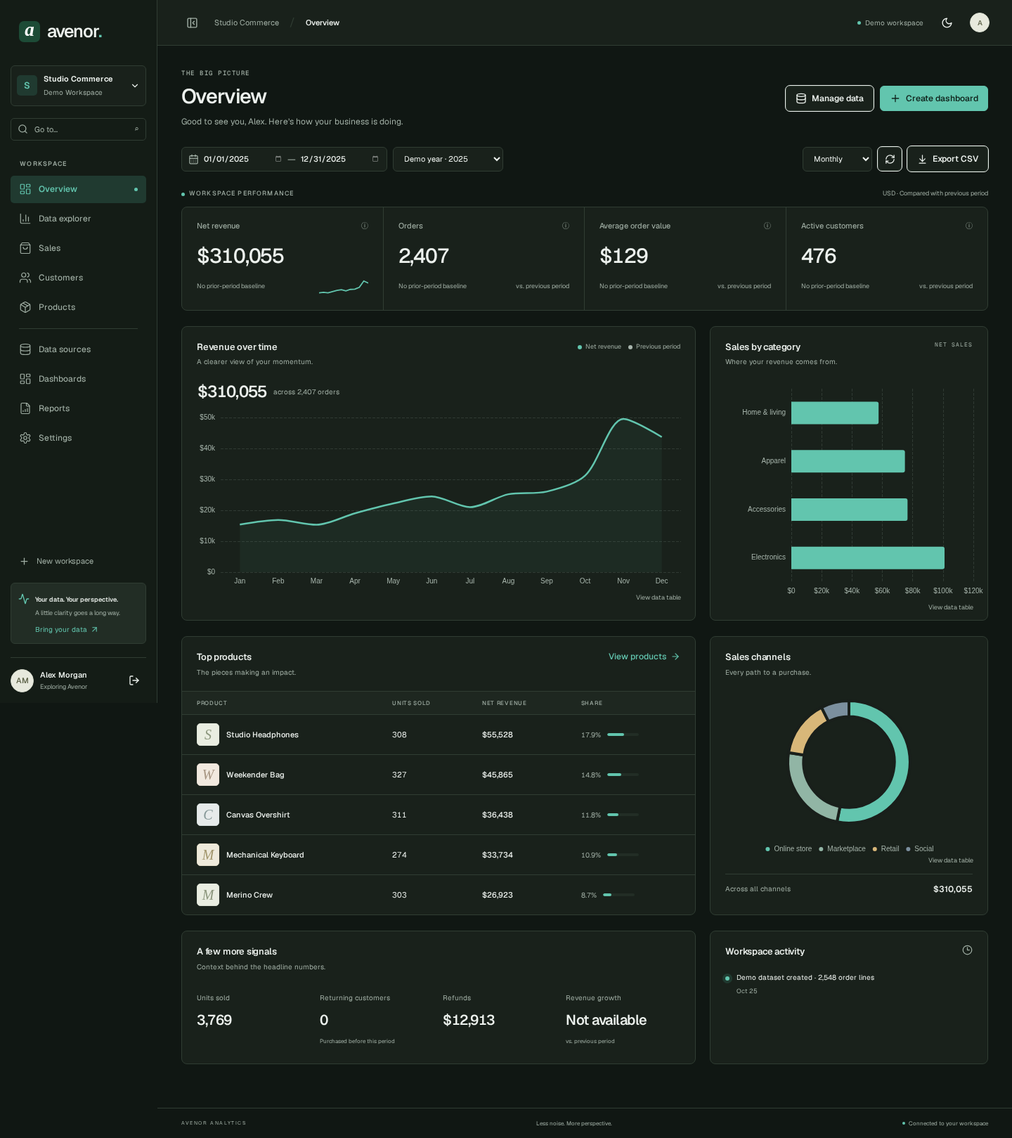
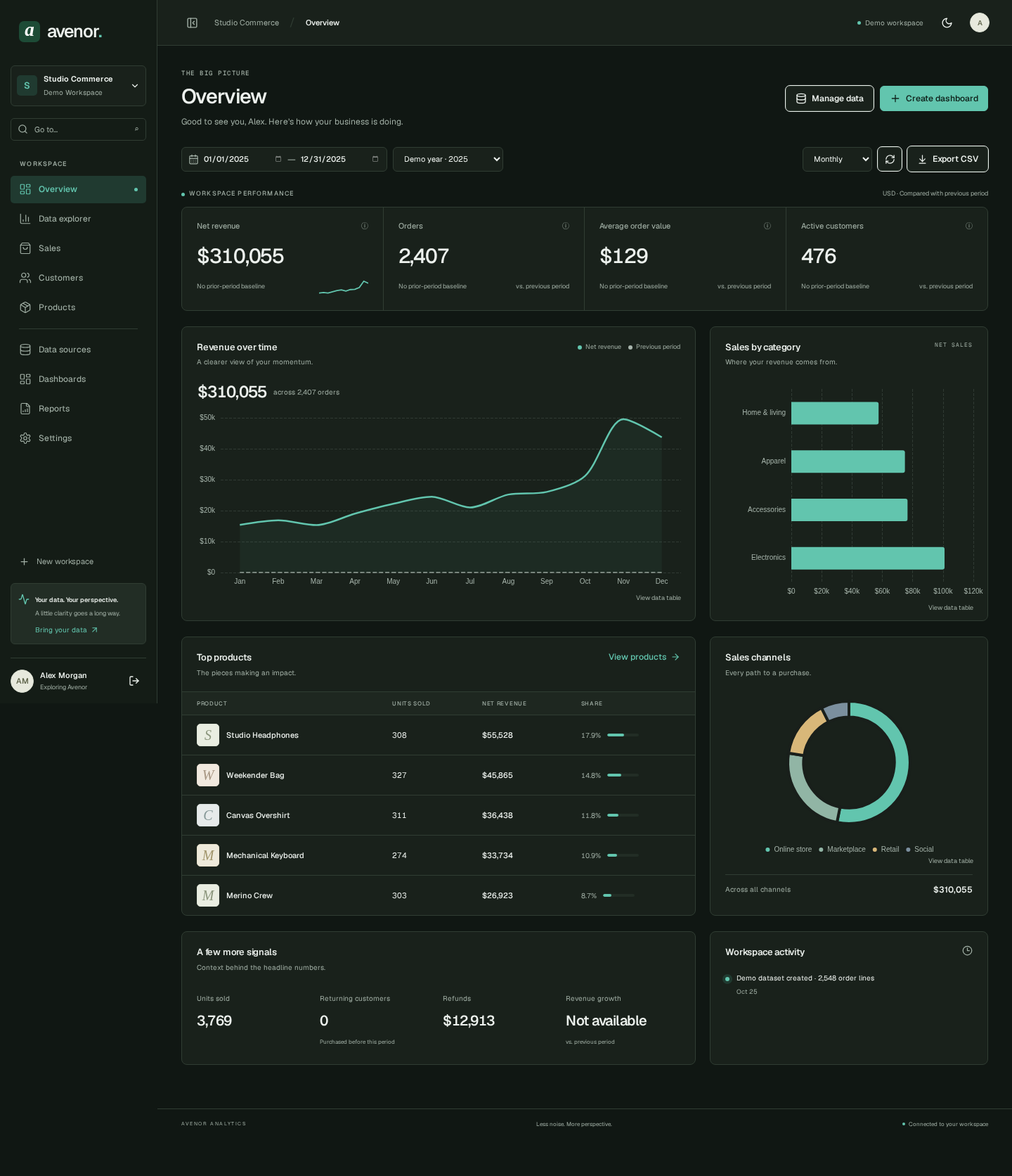
docs: record full bug audit and expanded validation evidence

diff --git a/docs/bug-audit.md b/docs/bug-audit.md
@@ -1,0 +1,39 @@
+# Bug audit — 25 October 2026
+
+Scope: every application module, API inputs/authorization, SQL analytics and concurrency, CSV/XLSX parsing and replacement, UI forms/navigation/cache/persistence, generated contracts, dependencies, migrations and Docker production runtime. Existing baseline: 20 backend tests and 11 frontend tests passed, demonstrating that a green baseline alone did not cover these edge cases.
+
+## Fixed findings
+
+| Area | Reproduced behavior | Correction / regression evidence |
+| --- | --- | --- |
+| Date validation | Reversed GET ranges and a previous-period underflow raised server errors | 422 responses; three list routes and Overview tested |
+| Database input bounds | Extreme numeric filters, NUL text and oversized entity pages could reach PostgreSQL and fail | Validation before DB operations; additive/undefined metric cases tested |
+| AOV | A category/status with no eligible orders displayed zero AOV | Nullable points, null-aware charts/tables and blank export cells |
+| Overview truncation | Daily views stopped after the default 100 groups while KPI covered the full year | Full bounded calendar buckets; 365-day test and explicit >500 error |
+| Period comparison | Sparse/partial previous months were paired by array index | Previous dates are shifted into current-period buckets and aligned, including a January/February → March regression |
+| Analytics consistency | An import between KPI and trend queries produced old KPI + new chart totals | Shared read / exclusive mutation workspace locks; a gated concurrent request test failed before the fix and now passes |
+| Default period | New 2026 data initially appeared empty behind the fixed 2025 filter | API-backed recommended year; real XLSX browser import verified |
+| Replacement schema | Facts changed while dataset column metadata stayed old | Replace updates schema and facts together; failed replace preserves both |
+| File parsing | Numeric dates became Unix timestamps; blank lines shifted error rows; malformed CSV and missing XLSX dimensions weakened checks | Strict ISO dates/CSV, physical source rows, actual row/column limits, workbook cleanup, explicit rejection of encrypted archives and active chartsheets |
+| Source preview | A missing/foreign dataset looked like an empty dataset | Explicit workspace-scoped 404 |
+| Workspace PATCH | Renaming cleared an omitted default; coupled updates could overwrite another setting | Independently patch only explicitly supplied fields; name-only/default-only/null behavior tested |
+| Form buttons | Add/remove filter submitted the surrounding report/widget form | Explicit non-submit buttons, unit and real browser form checks |
+| Filter values | Equals split product names containing commas into multiple values | Split only IN/Between; exact-match imported “Lamp, large” verified |
+| Dashboard drafts | Closing Rename changed the draft; navigation silently discarded changes; edits during slow save could be overwritten | Separate rename draft, app-link/workspace discard confirmation, disabled pending-save controls and browser regressions |
+| Stale caches | Explorer report saves/chart additions and deletion/reset of a default dashboard reused stale state | Invalidate related query and workspace caches; repeated additions and default navigation tested |
+| Table formatting | Financial detail rounded cents away; chart tables ignored number locale | Explicit two-decimal detail formatting and locale propagation; $20.50 verified from XLSX to UI |
+| Smaller UI state | Custom dates retained a preset label; returning to an earlier period restored an old page; saved account theme overrode a new device selection | Controlled preset, reset pagination state, device-theme precedence, tests |
+| Notifications | An older timer could dismiss a newer toast | Cancel the previous timer and clean up on unmount |
+
+## Authorization and integrity checks
+
+- Foreign datasets, dashboards and reports remain inaccessible through another workspace even when the same user belongs to **both** workspaces.
+- Editor/Admin cannot escalate to Owner or remove Owner; Viewer mutation restrictions remain covered.
+- Concurrent demo population/imports do not duplicate facts. Failed replacements leave original data and schema intact.
+- Existing session/CSRF/Origin/reset-token, transaction-before-response and CSV formula defenses remain covered.
+
+## Verification
+
+Final observed results: 50 backend tests, 16 frontend tests, 10 production-container E2E tests passed; type checking, Ruff, production build, migration drift and generated contracts passed. Details are recorded in docs/validation.md. The expanded browser suite also fails on any unhandled page exception or HTTP 5xx during each journey. This is a functional and security-oriented review, not a formal penetration test or proof of absence of all bugs.
+
+Known scope remains in docs/implementation-status.md: bounded synchronous imports, USD/UTC, a single API process for in-memory rate limits, preset widget sizes, no PDF/scheduling/integrations, and Chromium-only browser automation. Browser Back/Forward is not intercepted by the unsaved-link guard; save before using history navigation. GitHub Actions status and external deployment are not asserted from local checks.

diff --git a/docs/validation.md b/docs/validation.md
@@ -4,10 +4,10 @@ Checks run in the actual cloud execution environment; no external deployment is 
 
 | Check | Observed result |
 | --- | --- |
-| Backend pytest with PostgreSQL + local SMTP | 20 passed |
+| Backend pytest with PostgreSQL + local SMTP | 50 passed after audit |
 | Backend Ruff lint and format | passed |
 | Backend mypy | passed (all app modules) |
-| Frontend Vitest / Testing Library | 11 passed |
+| Frontend Vitest / Testing Library | 16 passed after audit |
 | Strict TypeScript | passed |
 | ESLint | exits 0; one informational TanStack Table/React Compiler compatibility warning |
 | Next.js production build | passed |
@@ -26,10 +26,18 @@ A dedicated ASGI response-boundary regression opens an independent DB connection
 
 ## Browser scenarios
 
-Three Playwright workflows exercise real UI + API + PostgreSQL: demo/exploration/dashboard persistence/import/report CSV; registration/workspace/demo/preferences/logout; themes/responsive navigation and screenshots. The suite checks no page overflow at 360/390/768/1024/1440/1920 px. Axe runs on light and dark Overview. Runtime page exceptions are asserted absent during the main functional journey. Screenshots are captured from the live app with reduced motion; no fixed mock API datasets are injected.
+Ten Playwright workflows exercise real UI + API + PostgreSQL: demo/exploration/dashboard persistence/import/report CSV; registration/workspace/demo/preferences/logout; themes/responsive navigation and screenshots. The suite checks no page overflow at 360/390/768/1024/1440/1920 px. Axe runs on light and dark Overview. Runtime page exceptions are asserted absent during the main functional journey. Screenshots are captured from the live app with reduced motion; no fixed mock API datasets are injected.
 
-Development-server runs passed. Production-container runs exposed a transaction timing race; the DB dependency was changed to function scope so commit completes before the response is sent, and a regression test was added. A run interrupted by concurrent npm reinstallation is not counted as a pass. Final post-fix production-container run: all three workflows passed (16.9 seconds), with all four services healthy.
+Development-server runs passed. Production-container runs exposed a transaction timing race; the DB dependency was changed to function scope so commit completes before the response is sent, and a regression test was added. A run interrupted by concurrent npm reinstallation is not counted as a pass. The initial production-container run passed three workflows. The expanded audit suite and final production outcome are recorded below.
 
 ## Reproducibility
 
 Use the exact commands in README. Unit/integration tests are independent from UI evidence. Backend tests operate only on a database whose name ends in `_test`; fixtures reset that dedicated database between cases. Browser tests create fresh independent users/workspaces. Historical browser failures and traces remain ignored under `apps/web/test-results`, not in committed evidence. Browser tests are functional and accessibility checks, not screenshot pixel-baseline tests.
+
+## Audit follow-up
+
+See [bug-audit.md](bug-audit.md) for the reproduced issues and corrections. The expanded backend suite has 50 cases, including date/numeric/text boundaries, sparse/partial period comparisons, full daily coverage, shared-read consistency during imports, source replacement metadata, malformed files, cross-workspace child IDs and role escalation. The frontend suite has 16 tests. Browser coverage adds slow saves, cancelled navigation/workspace changes, rename cancellation, nested filter forms, repeated Explorer additions, XLSX mapping with exact cents, latest-data period, device-theme persistence, default dashboard deletion and demo-reset navigation. Every journey checks for unhandled JavaScript exceptions and HTTP 5xx. A further responsive journey checks all nine workspace sections at 360/768/1440 px. Encrypted XLSX and active chartsheets now have explicit parser regressions.
+
+OpenAPI and generated TypeScript were regenerated and hash-checked with no drift. Alembic upgrade and schema drift check passed. npm and Python dependency audits were repeated with no known findings. No external deployment or remote Actions result is inferred.
+
+Final audit production-container run: **10 Playwright tests passed in 30.0 seconds** against the rebuilt API and standalone Next.js images. PostgreSQL, Mailpit, API and web were healthy. The application source was unchanged after this run.

diff --git a/README.md b/README.md
@@ -9,10 +9,10 @@
 - Registration, Argon2id passwords, persistent HttpOnly cookie sessions, CSRF protection, logout, profile/password changes, and one-time password recovery through local Mailpit.
 - Isolated workspaces with Owner, Admin, Editor and Viewer permissions enforced by the API.
 - One-click, independent demo workspaces: 2,548 deterministic order lines across January–December 2025, including seasonality, repeat customers, discounts, cancellations and refunds. Demo reset is explicit.
-- Overview, Sales, Customers and Products use the same PostgreSQL sales facts. Period comparisons, filters, server-side search/sort/pagination, column visibility, and entity detail views.
+- Overview, Sales, Customers and Products use the same PostgreSQL sales facts. Aligned period comparisons, a default date range based on the latest imported year, filters, server-side search/sort/pagination, column visibility, and entity detail views.
 - Data explorer with validated metrics, dimensions, typed filters, bounded SQL aggregation and ECharts visualizations with accessible data tables.
 - CSV/XLSX preview, column mapping, inferred types, row validation, atomic create/replace imports, duplicate prevention, private source handling, import history and error CSVs.
-- Dashboard creation, rename, duplication, deletion, default selection, widget editing, mouse/keyboard drag ordering, mobile order controls, two width/height choices, notes and persisted layout. Revision checks prevent silent concurrent overwrites.
+- Dashboard creation, rename, duplication, deletion, default selection, widget editing, mouse/keyboard drag ordering, mobile order controls, two width/height choices, notes and persisted layout. Revision checks prevent silent concurrent overwrites; in-app links/workspace changes warn before discarding an unsaved layout.
 - Saved report configurations, live results, editing/deletion and CSV export. Sales exports preserve the current search, status and period.
 - Light/dark/system themes, responsive navigation, local fonts, reduced motion, loading/empty/error states, and persistent account preferences.
 
@@ -119,7 +119,7 @@ npm run test:e2e
 
 The browser helper unpacks the locked `@sparticuz/chromium` development package, useful when the environment blocks Playwright's download CDN. It needs a compatible Linux x86-64 environment. On other platforms, use `npx playwright install chromium`; omit `.data/browser-path` or set `PW_CHROMIUM_PATH` to a compatible installed Chromium. The tests default to `http://localhost:3000`.
 
-Tests cover real browser registration, demo analytics, search/filtering, dashboard edit/resize/persistence, CSV mapping/import, saved reports/export, theme persistence, mobile navigation and overflow checks at 360/390/768/1024/1440/1920 px. Axe checks exercise light and dark Overview. Screenshots are real captures, not fixture data. See [validation evidence](docs/validation.md).
+Tests cover real browser registration, demo analytics, search/filtering, dashboard edit/resize/persistence, CSV mapping/import, saved reports/export, theme persistence, mobile navigation and overflow checks at 360/390/768/1024/1440/1920 px. Axe checks exercise light and dark Overview. Screenshots are real captures, not fixture data. See [validation evidence](docs/validation.md) and the [bug audit report](docs/bug-audit.md).
 
 ## API contracts
 
@@ -133,7 +133,7 @@ npm run contracts
 npm run typecheck
 ```
 
-Commit the schema and generated TypeScript together. GitHub Actions checks contract drift, backend/frontend checks, production build and browser workflows; the workflow itself is supplied but has not been run on GitHub.
+Commit the schema and generated TypeScript together. GitHub Actions checks contract drift, backend/frontend checks, production build and browser workflows; GitHub Actions results have not been verified from this environment.
 
 ## Measured performance
 

diff --git a/docs/implementation-status.md b/docs/implementation-status.md
@@ -10,12 +10,12 @@ This is an initial implementation of the master specification, not a declaration
 
 - Commerce schema only, USD only, UTC calendar dates. No arbitrary dataset schemas, currency conversion, translated Russian UI or configurable analytics timezone. Products and customers are analytical fact dimensions rather than editable catalogs.
 - Imports are synchronous/atomic, capped at 10 MiB / 100,000 rows. There is no durable background queue, pending-job polling, append/upsert into existing orders, retained raw upload archive or automatic retries. UI processing reflects the actual HTTP operation; no simulated progress.
-- Grouped results are limited to 500 points; missing date buckets are omitted. One primary metric/series per query; stacked mode is a single stacked series, not a multi-metric pivot. No advanced retention/LTV, forecasting or profit metrics.
-- Dashboard layout supports sortable order and half/full width, standard/tall height presets. It is not a free-form arbitrary-pixel grid with resize handles. Persistence is explicit, with conflict detection; no collaborative merge.
+- Grouped results are limited to 500 points; generic explorer queries omit missing date buckets; Overview fills and aligns revenue buckets. One primary metric/series per query; stacked mode is a single stacked series, not a multi-metric pivot. No advanced retention/LTV, forecasting or profit metrics.
+- Dashboard layout supports sortable order and half/full width, standard/tall height presets. It is not a free-form arbitrary-pixel grid with resize handles. Persistence is explicit, with conflict detection; no collaborative merge. The unsaved-change guard covers app links and workspace selection, not browser Back/Forward.
 - Member access is assigned to existing accounts. No email invitation flow, owner transfer, session-management screen, email change or automatic demo-account cleanup.
 - Reports export CSV; no PDF/XLSX export, scheduled delivery, public report links, external integrations or P2 features. Column visibility is a current table preference, not a saved per-account table layout.
 - Sensitive-endpoint rate limits are in-memory and assume one API process. Production ingress controls, shared rate limits, SMTP delivery, backup/restore, monitoring, retention policy and TLS termination need deployment-specific configuration. The Compose password is local-development configuration.
 - Automated browser evidence is Chromium/Linux only. Firefox/WebKit and full visual-regression baselines are not claimed. Axe coverage is Overview in light/dark, not a complete WCAG certification. Manual visual inspection covers captured landing/desktop/mobile views.
-- CI is supplied but has not executed on GitHub. No remote deployment or push was performed. Local commits cannot be assumed to restore in a fresh cloud task merely because an environment draft was saved.
+- CI is supplied; the status of the remote GitHub Actions run has not been inspected. The initial implementation was pushed to main on the user’s request; audit fixes are local until a further push is authorized. No remote deployment was performed. Local commits cannot be assumed to restore in a fresh cloud task merely because an environment draft was saved.
 
 These limits are reflected in the available UI. Unsupported external integrations, scheduling and collaboration have no inactive navigation or fake controls.

diff --git a/docs/imports.md b/docs/imports.md
@@ -1,11 +1,11 @@
 # Sales import contract
 
-CSV: UTF-8 (optional BOM), comma/semicolon/tab delimiter, first row unique headers. XLSX: first active worksheet, values only; formulas and external links are not executed. Choose a non-empty file ≤10 MiB, ≤100,000 data rows, ≤50 columns; uncompressed XLSX archives are bounded to 100 MiB / 1,000 entries. HTTP bodies (including chunked requests) are capped at 11 MiB. Headers ≤200 characters, cells ≤2,000 characters; normalized identifiers/dimensions ≤200 characters.
+CSV: UTF-8 (optional BOM), comma/semicolon/tab delimiter, first row unique headers. XLSX: first active worksheet, values only; formulas and external links are not executed. Encrypted archives and active chart-only sheets are rejected with a validation message. Choose a non-empty file ≤10 MiB, ≤100,000 data rows, ≤50 columns; uncompressed XLSX archives are bounded to 100 MiB / 1,000 entries. HTTP bodies (including chunked requests) are capped at 11 MiB. Headers ≤200 characters, cells ≤2,000 characters; normalized identifiers/dimensions ≤200 characters.
 
 | Field | Required | Meaning/default |
 | --- | --- | --- |
 | order_id | yes | Order identifier; all lines of one order share date/customer/status/channel |
-| order_date | yes | ISO YYYY-MM-DD (Excel date cells also accepted) |
+| order_date | yes | Strict ISO YYYY-MM-DD, never Unix timestamps (Excel date cells also accepted) |
 | customer_id | yes | Stable customer identifier/name |
 | product_name | yes | Product identifier/name; one line per order/product pair |
 | quantity | yes | Integer 1–100,000 |
@@ -21,3 +21,5 @@ Preview returns eight rows and inferred types from up to 100 values. Mapping ass
 Imports are atomic: any invalid row causes zero imported lines, with a persisted failed job. Duplicate file hashes are rejected. Duplicate order/product keys inside the file are rejected. Order IDs already belonging to another dataset in the workspace are rejected even if file bytes differ. An explicit replace targets an existing workspace dataset and swaps its facts atomically; failure preserves the old source. Multiple new datasets with disjoint orders act as append-only sources. Upsert into arbitrary existing orders is not implemented.
 
 Raw files are read privately from the upload stream and discarded; they are not placed in a public path or retained in the repository. Source names are display metadata only. All data is scoped to membership, and original filenames are sanitized. Formula-like CSV export cells receive an apostrophe prefix. Deleting a dataset cascades its facts; widgets referring to that source show an explicit error until reconfigured.
+
+Validation preserves original physical row numbers, including blank lines and multiline CSV records. Malformed CSV quoting is rejected. XLSX row/column limits are checked against actual iteration as well as worksheet metadata, and workbooks close on success and failure. A replacement updates both facts and mapped schema metadata. Missing/foreign dataset previews return 404.

diff --git a/docs/architecture.md b/docs/architecture.md
@@ -26,11 +26,11 @@ Every protected resource requires a workspace membership. Owner/Admin manage mem
 - `reports`: saved validated query JSON.
 - `audit_logs`: actual workspace actions, not generated business events.
 
-Product/category/customer/channel dimensions live in the imported facts. They are not independent editable catalog entities, so separate unused dimension tables are deliberately omitted. Money uses NUMERIC(14,2), quantities are positive integers, roles/statuses have checks, and FK cascades delete dependent sales. Indexes cover tenancy/date/customer access. A composite unique key rejects duplicate dataset/order/product lines; workspace import locks prevent overlapping order IDs across sources during concurrent imports.
+Product/category/customer/channel dimensions live in the imported facts. They are not independent editable catalog entities, so separate unused dimension tables are deliberately omitted. Money uses NUMERIC(14,2), quantities are positive integers, roles/statuses have checks, and FK cascades delete dependent sales. Indexes cover tenancy/date/customer access. A composite unique key rejects duplicate dataset/order/product lines; exclusive workspace mutation locks prevent overlapping order IDs across sources during concurrent imports and serialize population/reset/deletion. Analytics acquires shared locks on the same row to prevent a response mixing old KPI totals with newly imported chart data.
 
 ## Layout persistence
 
-Widget order, half/full width, standard/tall height, title, type, notes and query are persisted together. The API updates a dashboard only if the submitted revision matches. A conflicting tab receives 409 and must reload. Saving is explicit, so rapid UI rearrangements coalesce into one atomic write. Dnd-kit provides mouse/keyboard sorting; arrows provide accessible mobile ordering. Width/height use preset grid choices, not arbitrary pixel resizing.
+Widget order, half/full width, standard/tall height, title, type, notes and query are persisted together. The API updates a dashboard only if the submitted revision matches. A conflicting tab receives 409 and must reload. Saving is explicit, so rapid UI rearrangements coalesce into one atomic write. Dnd-kit provides mouse/keyboard sorting; arrows provide accessible mobile ordering. Width/height use preset grid choices, not arbitrary pixel resizing. Rename uses a separate draft until Apply; mutations are disabled during a pending save. Discard confirmation covers workspace selection and in-app links; save before using browser Back/Forward, which are not intercepted by App Router.
 
 ## Cloud builds
 

diff --git a/docs/api.md b/docs/api.md
@@ -6,10 +6,12 @@ Base path: `/api/v1`. Interactive OpenAPI documentation: API `/docs`. The genera
 - Auth: `avenor_session` HttpOnly cookie. Authenticated non-GET requests require `x-csrf-token` matching the readable `avenor_csrf` cookie and session hash. An Origin header, when supplied, must match APP_ORIGIN.
 - Resource paths are `/workspaces/{workspace_id}/...`. Unknown/foreign resources return 404. Insufficient mutation roles return 403.
 - `/auth`: register, login, logout, me, password, forgot-password, reset-password, demo.
-- Workspace list/create/update, members list/PUT/delete, demo population/reset, activity.
+- Workspace list/create/update, members list/PUT/delete, demo population/reset, activity. Workspace PATCH changes only supplied fields; name cannot be null, while default_dashboard_id can explicitly be cleared.
 - Datasets list, multipart preview/import, preview records, delete; import history and errors CSV.
-- `/analytics/overview`, `/analytics/query`, `/analytics/sales`, `/analytics/entities/{customers|products}`, grouped `/analytics/export`, filtered raw `/analytics/sales/export`.
+- `/analytics/period` (recommended initial calendar year), `/analytics/overview`, `/analytics/query`, `/analytics/sales`, `/analytics/entities/{customers|products}`, grouped `/analytics/export`, filtered raw `/analytics/sales/export`.
 - Dashboards list/create/get/patch/delete. A dashboard patch is an atomic name/widgets/revision update, including layout. Reports list/create/patch/delete; export uses the same analytics query contract.
 - Errors use a human-readable `detail`, with field `errors` for request validation. Statuses: 401 unauthenticated, 403 forbidden/CSRF, 404 missing/scoped resource, 409 duplicate/conflict, 413 oversized, 422 invalid input, 429 limited, 503 unavailable local mail.
 - Request IDs and structured timing/status logs avoid query strings, body contents and credential values. API responses are no-store. Production stack traces are not enabled.
 - Sales pagination: page starts at 1, page_size 1–100. Entity pagination is also bounded. Query limit is 1–500, maximum 10 typed filters with up to 50 values each. Raw sales CSV export requires ≤100,000 matching lines; narrow filters otherwise.
+
+Grouped point values can be null for undefined averages/AOV; CSV exports encode these as empty values, not fabricated zeros. Numeric filters are bounded to ±1 trillion and at most 12 decimal places. Invalid/reversed/unrepresentable date ranges, excessive pages and NUL characters are rejected as 422 before database operations.

diff --git a/docs/metrics.md b/docs/metrics.md
@@ -15,4 +15,6 @@ All inputs represent **USD line-level sales**. No currency mixing/conversion, ta
 - Revenue growth = (current revenue − previous revenue) / previous revenue × 100. Zero previous revenue → null. Previous window has the same number of calendar days and ends the day before current start.
 - Generic `sum`, `average`, `minimum`, `maximum` operate on net line sales (including zero-recognition lines); `count` counts all source rows; `distinct_count` counts eligible customers.
 
-All aggregation takes place in SQL. No order-level total is repeated through a JOIN. `QueryOut.total` is calculated from the complete filtered facts, independently of grouped/limited points: a KPI never sums averages or overlapping distinct counts. Dates are ISO calendar dates in UTC; date filters are inclusive. Day/week/month use PostgreSQL date_trunc; weeks start Monday. Missing time buckets are currently omitted rather than interpolated; charts are descriptive, not forecasts. Charts and exports cap grouped results at 500; the full filtered aggregate is still returned separately. Tables use exact server-computed Decimal net revenue.
+All aggregation takes place in SQL. No order-level total is repeated through a JOIN. `QueryOut.total` is calculated from the complete filtered facts, independently of grouped/limited points: a KPI never sums averages or overlapping distinct counts. Dates are ISO calendar dates in UTC; date filters are inclusive. Day/week/month use PostgreSQL date_trunc; weeks start Monday. Overview fills missing revenue buckets with zero and aligns the previous window by shifting its dates forward by the window length before grouping. Its current/previous series therefore use identical bucket labels, including partial months and gaps. Overview accepts at most 500 buckets and asks for coarser grouping beyond that limit. Generic explorer queries remain sparse (missing buckets omitted); charts are descriptive, not forecasts. Undefined AOV groups remain null rather than zero. Charts and exports cap grouped results at 500; the full filtered aggregate is still returned separately. Tables use exact server-computed Decimal net revenue.
+
+The default UI period is the calendar year of the latest imported order date (UTC current year for an empty workspace), rather than a hard-coded demo year. A shared workspace read lock keeps multi-statement analytics responses consistent with the exclusive locks used by imports, replacements, dataset deletion and demo reset.
